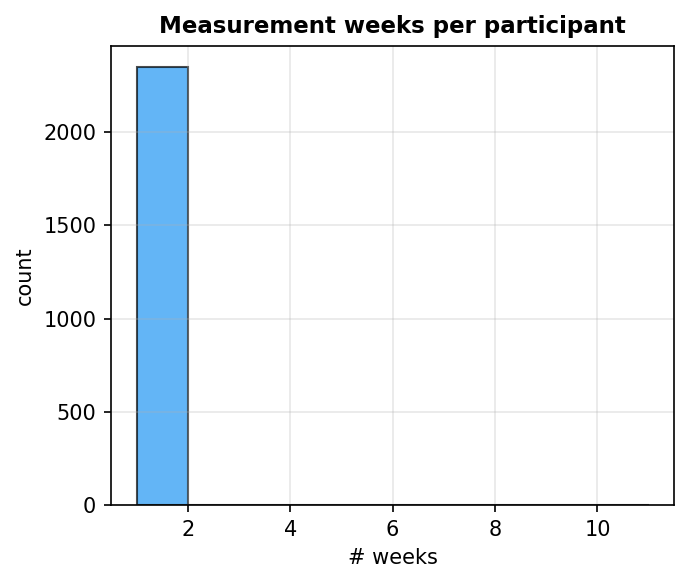
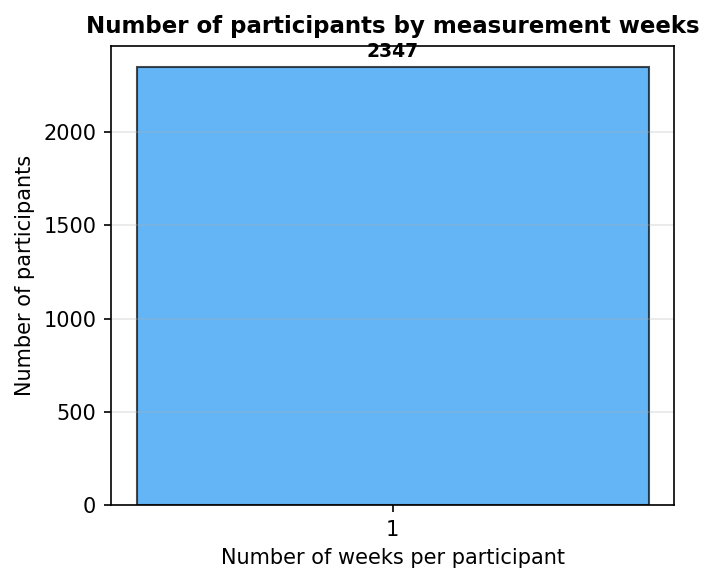
EDA Modified

diff --git a/code/eda.py b/code/eda.py
@@ -258,7 +258,6 @@ def draw_diurnal_profile(tensor, output_dir):
     Shows the mean activity pattern across all weeks and days, for the following descriptors:
     - ENMO_mean (activity level)
     - sleep proportion
-    - SIB proportion (sustained inactivity bouts)
     """
     descriptor_names = get_descriptor_names()
 
@@ -268,14 +267,12 @@ def draw_diurnal_profile(tensor, output_dir):
     # Select indices for the descriptors of interest
     idx_enmo_mean = descriptor_names.index("ENMO_mean")
     idx_sleep = descriptor_names.index("sleep")
-    idx_sib = descriptor_names.index("SIB")
 
     # Compute hourly averages
     hours_of_day = np.arange(24)
     # Average each hour (168 hours / 7 days = 24 hours per day)
     enmo_hourly = np.array([mean_profile[h::24, idx_enmo_mean].mean() for h in range(24)])
     sleep_hourly = np.array([mean_profile[h::24, idx_sleep].mean() for h in range(24)])
-    sib_hourly = np.array([mean_profile[h::24, idx_sib].mean() for h in range(24)])
 
     fig, ax = plt.subplots(figsize = (12, 5))
 
@@ -284,14 +281,12 @@ def draw_diurnal_profile(tensor, output_dir):
     ax.plot(hours_of_day, enmo_hourly, marker = "o", color = color_enmo, linewidth = 2, label = "ENMO_mean (activity)")
     ax.set_xlabel("Hour of day", fontsize = 11)
     ax.set_ylabel("Mean ENMO (g)", fontsize = 11, color = color_enmo)
-    ax.tick_params(axis="y", labelcolor=color_enmo)
+    ax.tick_params(axis = "y", labelcolor = color_enmo)
 
     # Secondary axis: Sleep and SIB proportions
     ax2 = ax.twinx()
     color_sleep = "#9C27B0"
-    color_sib = "#FF9800"
     ax2.plot(hours_of_day, sleep_hourly, marker = "s", color = color_sleep, linewidth = 2, label = "sleep proportion")
-    ax2.plot(hours_of_day, sib_hourly, marker = "^", color = color_sib, linewidth = 2, label = "SIB proportion")
     ax2.set_ylabel("Proportion of hour", fontsize = 11)
     ax2.set_ylim([0, 0.85])
 

diff --git a/code/config.py b/code/config.py
@@ -14,10 +14,10 @@ COVARIABLES = []
 
 
 # Accelerometry tensor file path (Participants, hours, variables)
-TENSOR_PATH = "../data/tensor_X.npy"
-PARQUET_PATH = "../data/dfParticipants.parquet"
+TENSOR_PATH = "../data/tensor_X-1.npy"
+PARQUET_PATH = "../data/dfParticipants-1.parquet"
 # Output directory for results
-OUTPUT_DIR = "../results" + "/comparison"
+OUTPUT_DIR = "../results" + "/comparison-1Week"
 
 SEED = 9626
 
